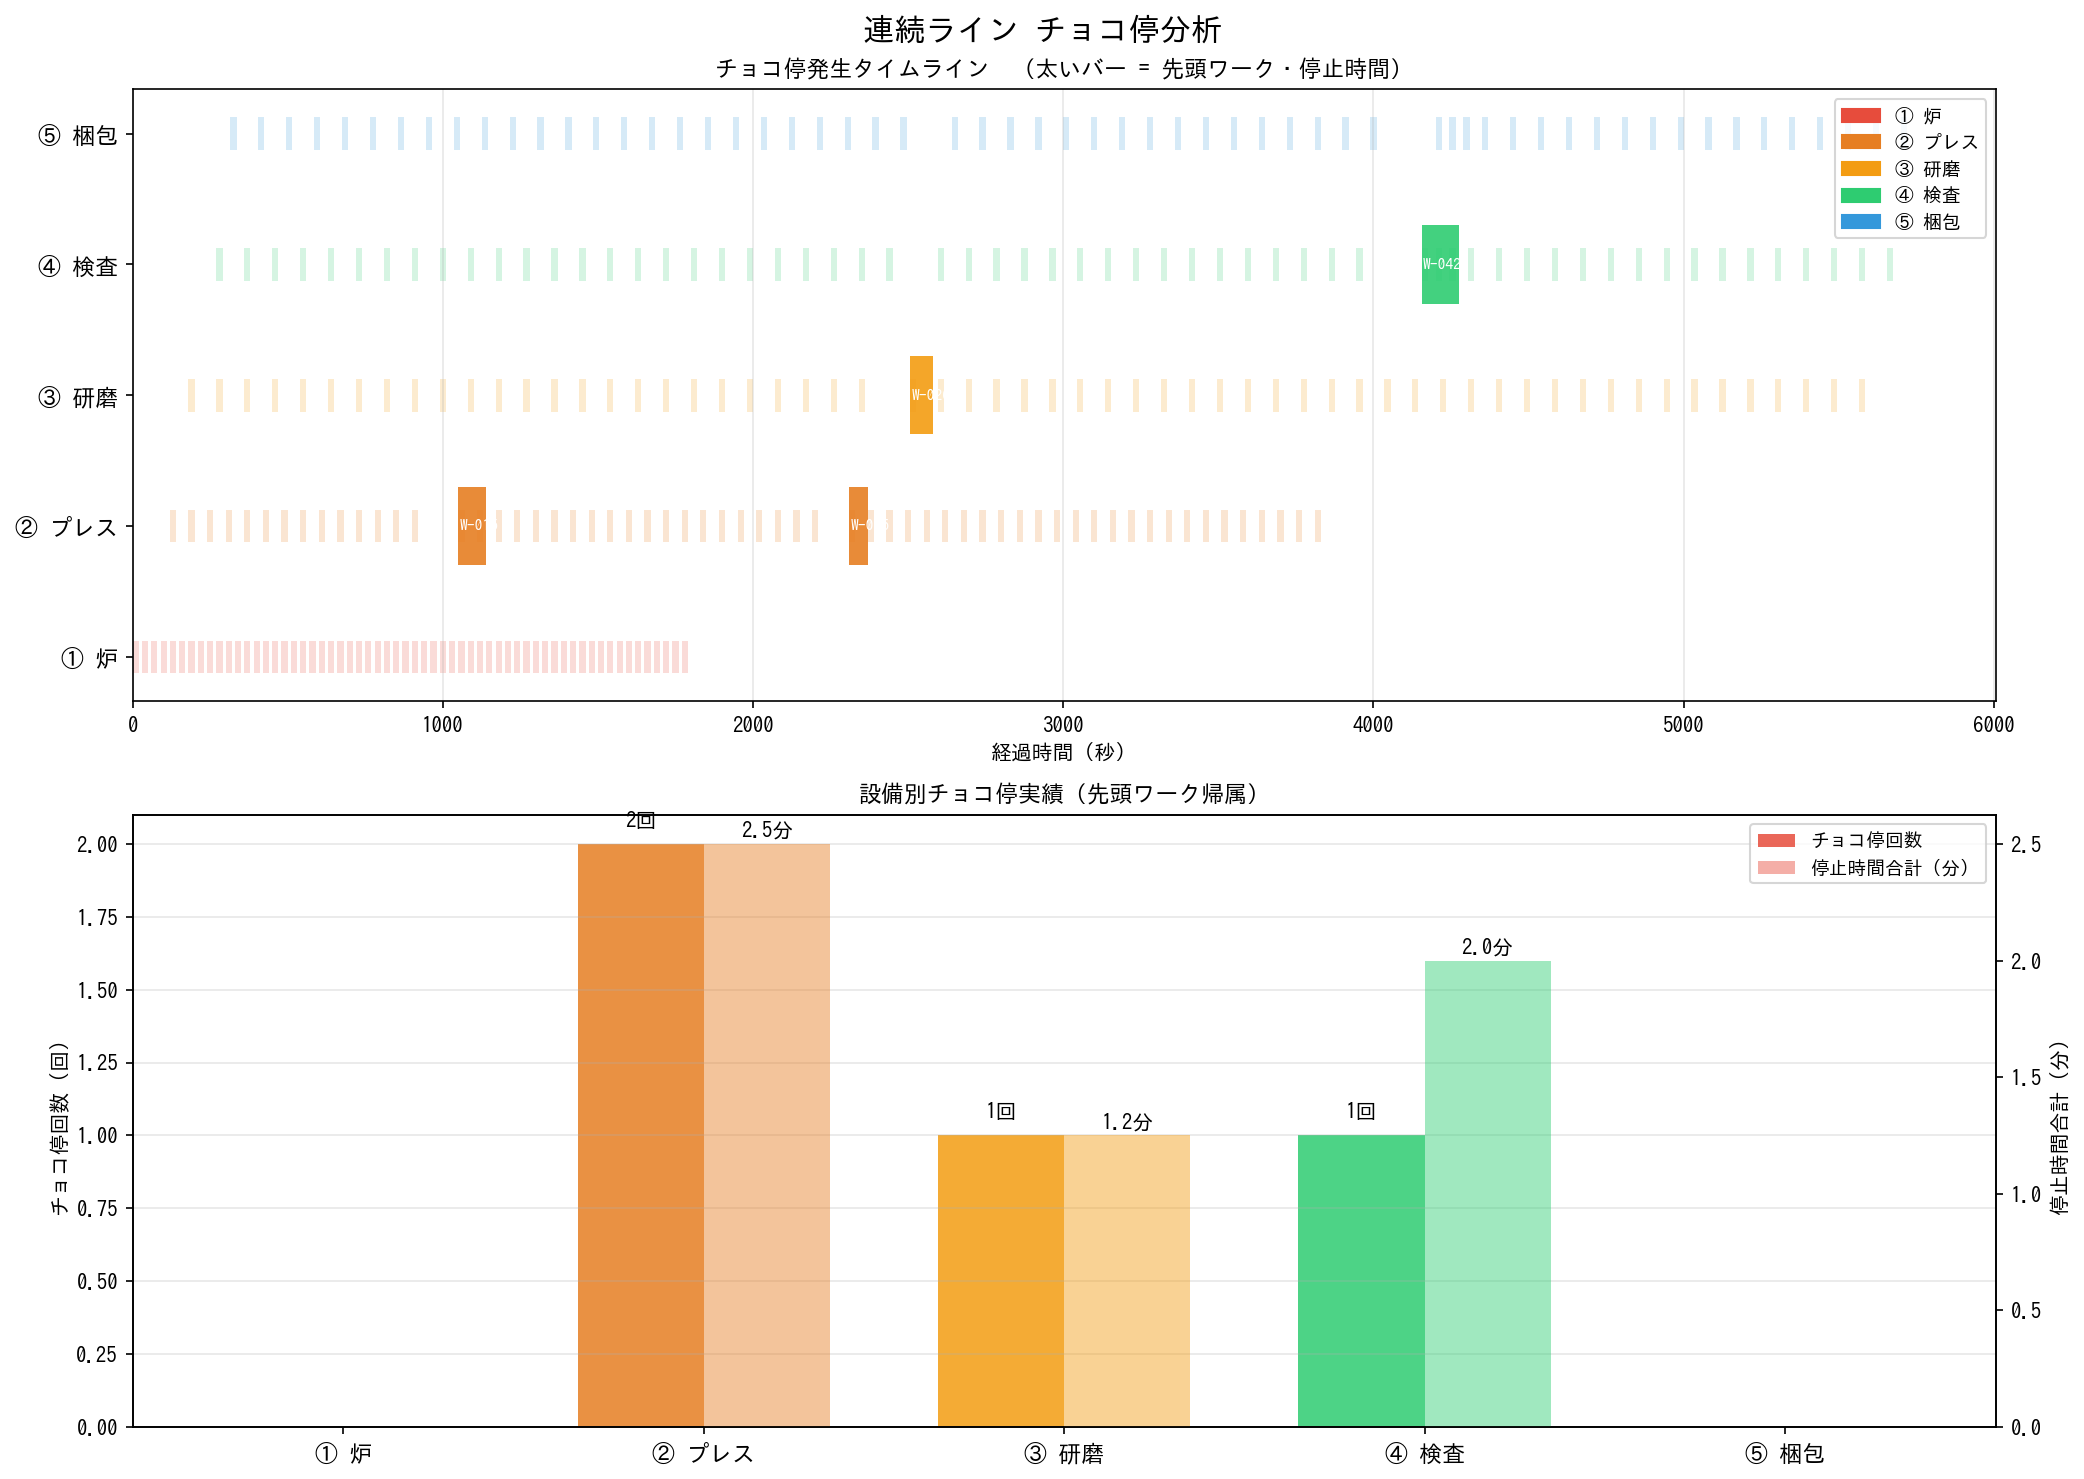
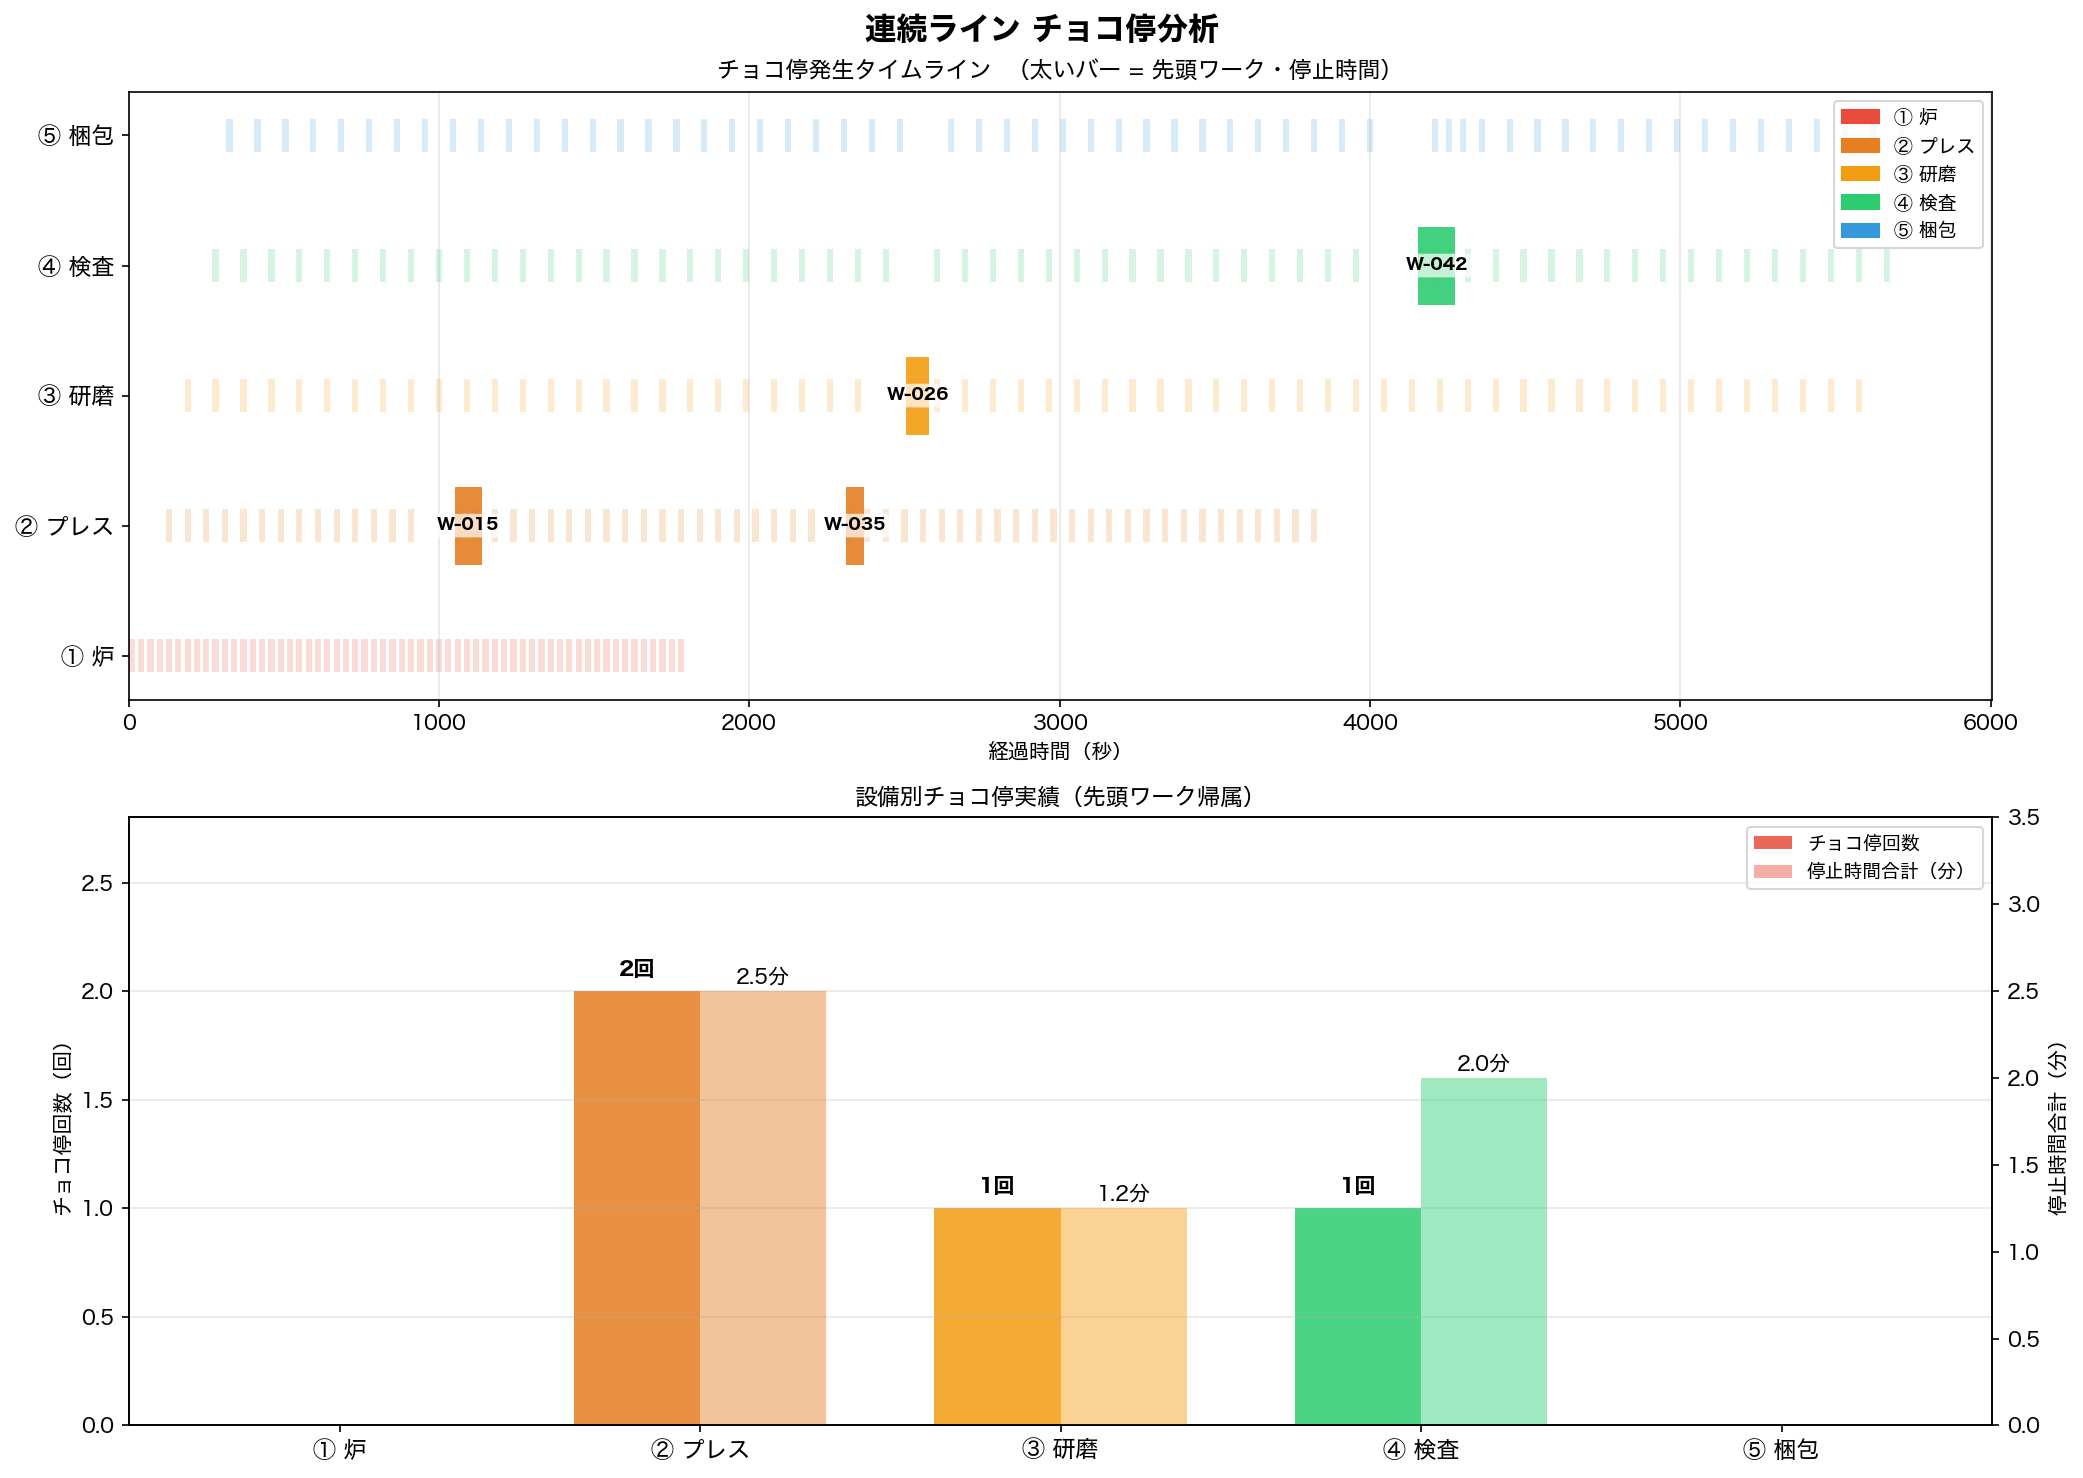
5記事目公開：チョコ停先頭ワーク判定（タイトル・本文・グラフ修正）
- タイトルをSEO重視に変更（製造ラインの停止原因を数値で特定する）
- リード文を会話セリフから始まる体験談構造に変更
- フロー図・upstream_works補足・一人称エピソードを追加
- グラフ修正：ワークNoラベルを黒文字＋白背景に、ylim余白追加
- 画像URLをZenn CDNに差し替え、GitHubリンクを追加
- published: true に変更

diff --git a/choco_stop_detection/main.py b/choco_stop_detection/main.py
@@ -8,7 +8,7 @@ import numpy as np
 import matplotlib
 matplotlib.use('Agg')
 import matplotlib.pyplot as plt
-matplotlib.rcParams['font.family'] = 'IPAGothic'
+matplotlib.rcParams['font.family'] = 'Hiragino Sans'
 import matplotlib.patches as mpatches
 
 # ── パラメータ ────────────────────────────────────────────────
@@ -115,9 +115,10 @@ def plot_results(df, leaders_df):
             dur = max(ev['duration_sec'], 40)
             ax1.barh(y, dur, left=to_sec(ev['entry_time']),
                      height=0.6, color=color_map[m], alpha=0.9)
-            ax1.text(to_sec(ev['entry_time']) + 5, y,
-                     ev['work_id'], va='center', fontsize=7.5,
-                     color='white', fontweight='bold')
+            ax1.text(to_sec(ev['entry_time']) + dur / 2, y,
+                     ev['work_id'], va='center', ha='center', fontsize=8,
+                     color='black', fontweight='bold',
+                     bbox=dict(boxstyle='round,pad=0.2', fc='white', alpha=0.7, lw=0))
 
     ax1.set_yticks(range(len(MACHINES)))
     ax1.set_yticklabels(MACHINE_LABELS, fontsize=11)
@@ -157,6 +158,12 @@ def plot_results(df, leaders_df):
         if h:
             ax2r.text(bar.get_x() + bar.get_width() / 2, h + 0.02,
                       f'{h:.1f}分', ha='center', va='bottom', fontsize=10)
+
+    # ラベルがはみ出さないよう上限に余裕を持たせる
+    max_count = summary['count'].max()
+    max_min   = summary['total_min'].max()
+    ax2.set_ylim(0, max_count * 1.4 if max_count else 1)
+    ax2r.set_ylim(0, max_min * 1.4 if max_min else 1)
 
     ax2.set_xticks(x)
     ax2.set_xticklabels(MACHINE_LABELS, fontsize=11)

diff --git a/articles/choco-stop-detection.md b/articles/choco-stop-detection.md
@@ -1,24 +1,22 @@
 ---
-title: "連続ラインのチョコ停をPythonで可視化する：先頭ワーク判定で真の原因設備を特定する"
+title: "製造ラインの停止原因を数値で特定する：チョコ停先頭ワーク判定をPandasで実装する"
 emoji: "⏱"
 type: "tech"
 topics: ["python", "pandas", "製造業", "DX", "データ分析"]
-published: false
+published: true
 ---
 
-# 連続ラインのチョコ停をPythonで可視化する
+## 「プレスが多い気がします」——誰も数値で答えられない
 
-## 「どこが止まっているか」を誰も答えられない
-
-製造ラインでこんなことはないだろうか。
+「プレスが多い気がします」——そう答えた担当者も、自信なさげだった。
 
 日次の生産実績を確認すると、計画に対して5〜10%のロスがある。不良品が多いわけでも、段取り替えが長かったわけでもない。記録を辿ると「その他ロス」の積み上げで説明がつく。いわゆるチョコ停だ。
 
-「どこで止まることが多いですか？」と聞くと、「プレスが多い気がします」「最近は研磨が怪しい」という答えが返ってくる。感覚で答えるしかない。なぜなら、チョコ停は「ちょっと止まっただけ」と流されて記録に残らないからだ。
+「どこで止まることが多いですか？」と問うたびに、「プレスが多い気がします」「最近は研磨が怪しい」という答えが返ってくる。感覚で答えるしかない。なぜなら、チョコ停は「ちょっと止まっただけ」と流されて記録に残らないからだ。
 
 一方で、PLCのログはDBに入っている。各設備の入口でワークを検知するたびにタイムスタンプが記録されている。ログは存在するが、誰も開いていない。
 
-**このログから「どの設備で、どのワークを先頭にチョコ停が起きたか」を自動で判定できれば、感覚頼りの議論が変わる。**
+**このログから「どの設備で、どのワークを先頭にチョコ停が起きたか」を自動で判定できれば、感覚頼りの議論が変わる。** PLCのログが眠っている現場なら、今日から試せる。
 
 ---
 
@@ -60,6 +58,14 @@ W-015 の `press_in_time` を見ると、W-014 から2分30秒あいている。
    タクト遅れ かつ 直前のワークもすでに遅れていた → 「後続ワーク」（= 渋滞の波及、除外）
 
 ④ 同じ work_id が上流設備ですでに先頭判定済み → 「下流への波」（= 除外）
+```
+
+判定のフローを整理すると次のようになる。
+
+```
+[タクト計算] → [閾値超え?] → YES → [前ワークも遅れ?] → YES → 後続扱い（スキップ）
+                                                       → NO  → 先頭ワーク（帰属）
+                            → NO  → 正常
 ```
 
 ④ の処理がポイントだ。プレスで止まった渋滞が研磨まで伝播すると、研磨でも W-015 がタクト遅れとして検出される。しかし W-015 はすでにプレスで先頭判定されているので、研磨ではカウントしない。原因はプレスにある、と正しく帰属できる。
@@ -157,6 +163,8 @@ leaders_df, standard_tacts = detect_leaders(df)
 print(leaders_df[['machine', 'work_id', 'entry_time', 'duration_sec']])
 ```
 
+`upstream_works` は「すでに上流で先頭判定された `work_id` の集合」だ。設備を上流から順に処理し、同じ `work_id` が登場したらスキップすることで、渋滞の波及先を結果から取り除いている。
+
 出力例：
 
 ```
@@ -168,6 +176,8 @@ inspect   W-042 2024-03-15 09:09:15         120.0
 ```
 
 プレス・研磨・検査の3設備でチョコ停が検出された。プレスで止まった渋滞が研磨や検査に波及した分は、正しく除外されている。
+
+実際にこのロジックを動かしたとき、単純集計でワースト1位だった研磨が、先頭ワーク帰属後には3位に下がった。原因はプレスだった。現場の「研磨が怪しい」という感覚は、渋滞の影響を見ていたに過ぎなかった。
 
 ### ブロック3：可視化
 
@@ -233,8 +243,7 @@ plt.savefig('samples/choco_stop_analysis.png', dpi=150, bbox_inches='tight')
 
 出力されるグラフが下の画像だ。
 
-<!-- 画像：samples/choco_stop_analysis.png をZennにアップロードして差し替える -->
-![チョコ停分析グラフ](samples/choco_stop_analysis.png)
+![チョコ停分析グラフ](https://static.zenn.studio/user-upload/c5e4362d53a0-20260518.png)
 
 上段のガントチャートでは、各設備の通過リズムを細いバーで示し、チョコ停（先頭ワーク）を太いバーで強調している。プレスでW-015・W-035が、研磨でW-026が、検査でW-042が止まっていることが一目でわかる。
 
@@ -282,3 +291,11 @@ plt.savefig('samples/choco_stop_analysis.png', dpi=150, bbox_inches='tight')
 | 可視化 | `matplotlib` ガントチャート＋棒グラフ |
 
 チョコ停の原因設備を正しく特定するには、「タクトが遅かった設備」ではなく「最初に止まった設備」を見つけなければならない。その判定を、画像処理なし・pandas の `.diff()` と `.shift()` だけで実装できる——それが今回伝えたかったことだ。
+
+---
+
+## GitHubリポジトリ
+
+サンプルコード・サンプルデータ一式を公開しています。
+
+🔗 [github.com/factory-dx-eng/manufacturing-python](https://github.com/factory-dx-eng/manufacturing-python/tree/main/choco_stop_detection)
